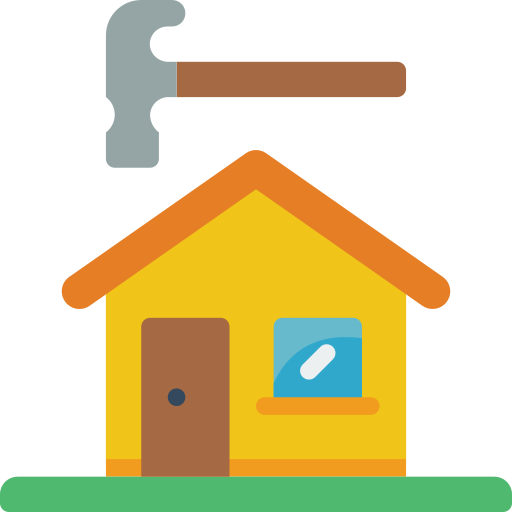
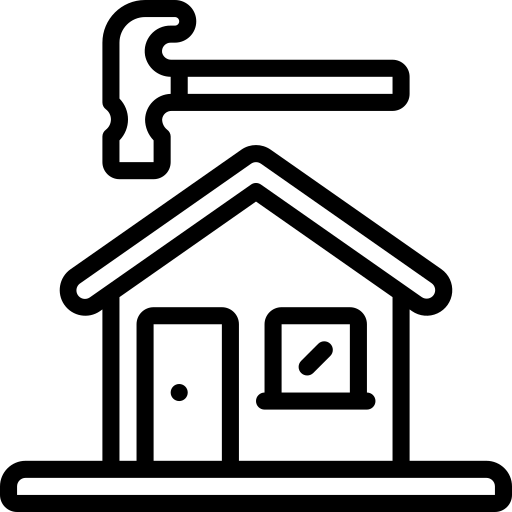
add component files

diff --git a/index.html b/index.html
@@ -2,7 +2,7 @@
 <html lang="en">
   <head>
     <meta charset="UTF-8" />
-    <img rel="icon" type="image" href="./public/house.png" />
+    <link rel="icon" type="image/x-icon" href="hammer.png" />
     <meta name="viewport" content="width=device-width, initial-scale=1.0" />
     <title>Apex2.0</title>
   </head>

diff --git a/src/App.jsx b/src/App.jsx
@@ -1,7 +1,13 @@
 import './App.css'
+import React from 'react'
+import Navbar from './Navbar.jsx'
 
 function App() {
-  return <></>
+  return (
+    <>
+      <Navbar />
+    </>
+  )
 }
 
 export default App

diff --git a/src/components/Navbar.jsx b/src/components/Navbar.jsx
@@ -1,0 +1,7 @@
+import React from 'react'
+
+function Navbar() {
+  return <div>Navbar</div>
+}
+
+export default Navbar
